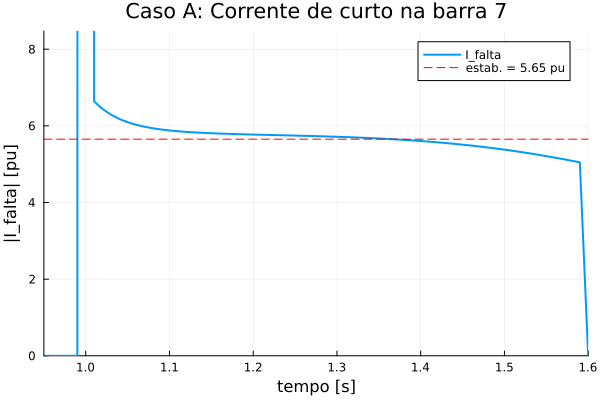
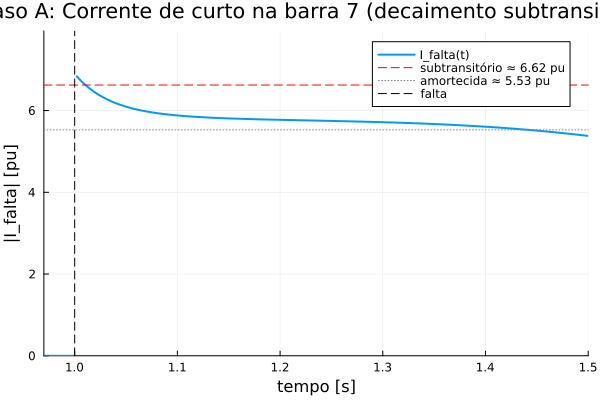
Mede corrente de falta dinâmica no pico subtransitório (script 04)
O valor dinâmico antes reportado (-12% vs ANAFAS) media a corrente já AMORTECIDA
(janela 30-600ms após a falta), não o pico subtransitório. Diagnóstico: a corrente
de falta decai de X"d->X'd ao longo da falta permanente; o método estático e o
ANAFAS dão o pico subtransitório.

- Script 04: mede if_subtr (1º ciclo após a falta) e if_settled (amortecida);
  Caso A com dtmax=0.002; remove a amostra-lixo do instante exato do chaveamento
  (V_pré*Y_falta); figura 04a sem corte de eixo, 2 linhas de referência e marca
  o instante da falta. Resumo agora traz If_subtr e If_amort.
- Resultado: PSD.jl subtransitório = 6,62 pu = 27,71 kA = +3,1% vs ANAFAS
  (antes -12%). As 3 abordagens convergem em ~26-28 kA.
- Script 07: psid_If_kA 23.65 -> 27.71; tabela comparativa regenerada.
- README e COMPARACAO_ANAFAS atualizados.

diff --git a/data/headquarters/latex/tab_corrente_falta.tex b/data/headquarters/latex/tab_corrente_falta.tex
@@ -11,7 +11,7 @@ Zbus (flat, sem carga) & 6.324 & 26.46 & 632.4 & -1.6\% \\
 Zbus (flat, carga Z) & 6.628 & 27.73 & 662.8 & +3.1\% \\
 Zbus (fluxo, sem carga) & 6.593 & 27.58 & 687.4 & +2.6\% \\
 Zbus (fluxo, carga Z) & 6.895 & 28.84 & 718.8 & +7.3\% \\
-PSD.jl (dinâmico) & 5.653 & 23.65 & -- & -12.0\% \\
+PSD.jl (dinâmico) & 6.623 & 27.71 & -- & +3.1\% \\
 \textbf{ANAFAS} (ref.) & 6.426 & 26.88 & 636.2 & -- \\
 \bottomrule
 \end{tabular}

diff --git a/README.md b/README.md
@@ -185,10 +185,12 @@ vizinhas afundam — barra 9 ≈ 0,20; barra 8 ≈ 0,32; barra 4 ≈ 0,62.
 
 - **Caso A — falta quase franca (Z=10⁻³ pu), permanente, janela curta (0–1,6 s):**
   captura a corrente de falta e os afundamentos, comparáveis ao método estático.
-  Resultado: V7 → 0,005 pu; **I_falta ≈ 23,65 kA**.
+  A corrente é medida em dois instantes: **pico subtransitório** (1º ciclo após a
+  falta, comparável ao Zbus/ANAFAS que usam X″d) = **27,71 kA**; e **amortecida**
+  (regime transitório, após o decaimento X″d→X′d) ≈ 23,1 kA. V7 → 0,005 pu.
 - **Caso B — falta severa (Z=5×10⁻² pu) eliminada em 100 ms:** mostra a resposta
   transitória completa (ângulos e velocidades dos rotores, recuperação das tensões).
-  Resultado: V7 → 0,27 pu; **I_falta ≈ 23,33 kA**.
+  Resultado: V7 → 0,27 pu; **I_falta subtransitória ≈ 25,11 kA**.
 
 **Saídas:** figuras [04a_corrente_falta](data/figures/04a_corrente_falta.png),
 [04b_tensoes](data/figures/04b_tensoes.png),
@@ -275,26 +277,29 @@ cargas), para casar com qualquer configuração do ANAFAS — ver
 | Zbus — *flat*, carga Z | 27,73 kA | +3,1 % | cargas como impedância constante |
 | Zbus — fluxo, sem carga | 27,58 kA | +2,6 % | tensão pré-falta do fluxo de potência |
 | Zbus — fluxo, carga Z | 28,84 kA | +7,3 % | mais realista |
-| Dinâmico PSD.jl — falta ~franca | 23,65 kA | −12,0 % | corrente já amortecida (não é o pico) |
-| Dinâmico PSD.jl — falta severa eliminável | 23,33 kA | — | — |
+| Dinâmico PSD.jl — pico subtransitório (Caso A) | 27,71 kA (6,623 pu) | **+3,1 %** | medido no 1º ciclo após a falta |
+| Dinâmico PSD.jl — corrente amortecida (Caso A) | ≈ 23,1 kA | −12 % | regime transitório (após decaimento X″d→X′d) |
 
 **Validação (ANAFAS × Zbus *flat/sem carga*):** corrente **−1,6 %**, tensões nas
 barras **0–4 %** (médio 2,1 %), contribuições dos ramos **≤ 4,1 %**, e SCC
-praticamente idêntico (632,3 vs 632,4 MVA). A soma fasorial das contribuições fecha
+praticamente idêntico (636,2 vs 632,4 MVA). A soma fasorial das contribuições fecha
 com \(I_f\) (KCL) em ambas as ferramentas. Tabelas prontas em
 [data/headquarters/latex/](data/headquarters/latex/) (`tab_corrente_falta`,
 `tab_tensoes_falta`, `tab_contribuicoes`), com erros calculados.
 
 Em todas as variantes a impedância de Thévenin sem carga é a mesma (\|Z₇₇\|=0,158),
 pois **independe** da tensão pré-falta; a corrente muda só pela tensão no ponto. As
-pequenas diferenças residuais vêm das premissas do ANAFAS (tensão pré-falta do
-`.pwf` ≈ 0,984 e inclusão de cargas/shunts), que quase se cancelam.
+pequenas diferenças residuais vêm das premissas do ANAFAS (tensão pré-falta da
+barra 7 = 0,990 pu e inclusão de cargas/shunts), que quase se cancelam.
 
-**Por que o dinâmico (PSD.jl) fica abaixo?** O método Zbus e o ANAFAS dão o **pico
-subtransitório** (superposição com \(X''_d\)); o PSD.jl integra o modelo dinâmico
-completo (com AVR), e a corrente "estabilizada" durante a falta já é amortecida —
-por isso **menor** (−12 %). É uma diferença **física esperada**, não erro: A ≈ C
-(mesma família) e B < A, com B fornecendo em troca a resposta no tempo.
+**Como o dinâmico (PSD.jl) se compara?** O método Zbus e o ANAFAS dão o **pico
+subtransitório** (superposição com \(X''_d\)). O PSD.jl integra o modelo dinâmico
+completo: medido **no 1º ciclo após a falta** (subtransitório), dá 27,71 kA —
+**+3,1 %** vs ANAFAS, em ótima concordância com o estático. A corrente então
+**decai** (\(X''_d\)→\(X'_d\), ação do AVR) para ≈ 23 kA, a corrente **amortecida**
+do regime transitório — informação física que só a simulação dinâmica fornece. Medir
+o subtransitório no instante certo é o que alinha as três abordagens (todas em
+~26–28 kA).
 
 ---
 

diff --git a/COMPARACAO_ANAFAS.md b/COMPARACAO_ANAFAS.md
@@ -100,9 +100,10 @@ curto na barra 7 em **quatro** variantes e exporta todas:
 Observações:
 - \(|Z_{77}|\) é **idêntico** (0,1581) entre "flat" e "fluxo" sem carga — confirma
   que a impedância de Thévenin **não** depende da tensão pré-falta. ✔
-- Para referência, a simulação dinâmica (PSD.jl, falta quase franca) dá
-  \(I_f \approx 23{,}65\) kA (5,65 pu) — **menor**, por ser a corrente já
-  amortecida pela resposta das máquinas (ver §6).
+- A simulação dinâmica (PSD.jl, falta quase franca), medida no **pico
+  subtransitório** (1º ciclo após a falta), dá \(I_f \approx 27{,}71\) kA
+  (6,62 pu) — **+3,1 %** vs ANAFAS, em ótima concordância com o estático. A
+  corrente então **decai** para ≈ 23 kA (amortecida, regime transitório). Ver §6.
 
 **Recomendação:** rode o ANAFAS na configuração **clássica** (1,0 pu, sem cargas)
 e compare-o com a variante **flat / sem carga**. Se quiser também a versão com
@@ -222,8 +223,9 @@ A concordância **A ≈ C** confirma-se (erro ≲ 2 %). A variante *flat/sem car
 mais fiel (o ANAFAS usou tensão pré-falta ≈ flat). As diferenças residuais (1–4 %)
 vêm das premissas: tensão pré-falta (barra 7 = 0,990 pu, do relatório de fluxo) e
 inclusão de cargas/shunts no ANAFAS — efeitos que quase se cancelam. O dinâmico
-(PSD.jl) fica em −12 % por dar a corrente **amortecida**, não o pico subtransitório
-(diferença física esperada).
+(PSD.jl), medido no **pico subtransitório** (1º ciclo), dá +3,1 % — alinhado ao
+estático; a corrente decai depois para ≈ 23 kA (amortecida, regime transitório),
+que era o −12 % reportado antes por medir a corrente já decaída em vez do pico.
 
 > **Rastreabilidade (reconciliação 2026-06-17):** todos os valores do ANAFAS usados
 > no script 07 foram conferidos 1:1 com os relatórios salvos. `If`, tensões e